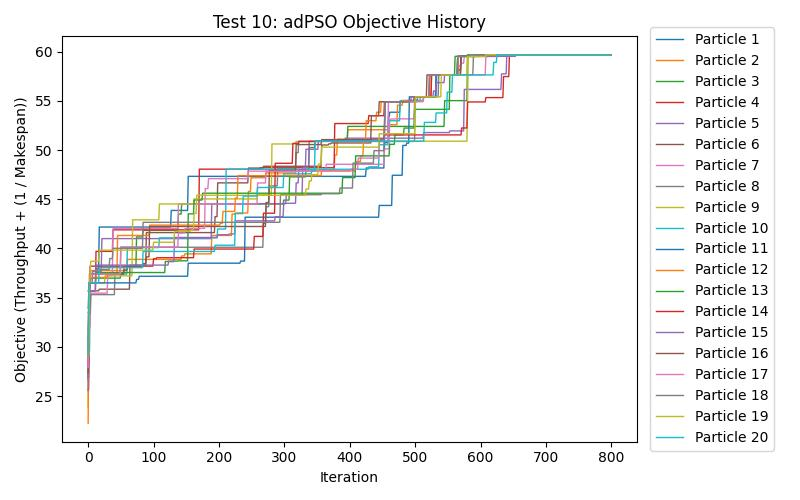
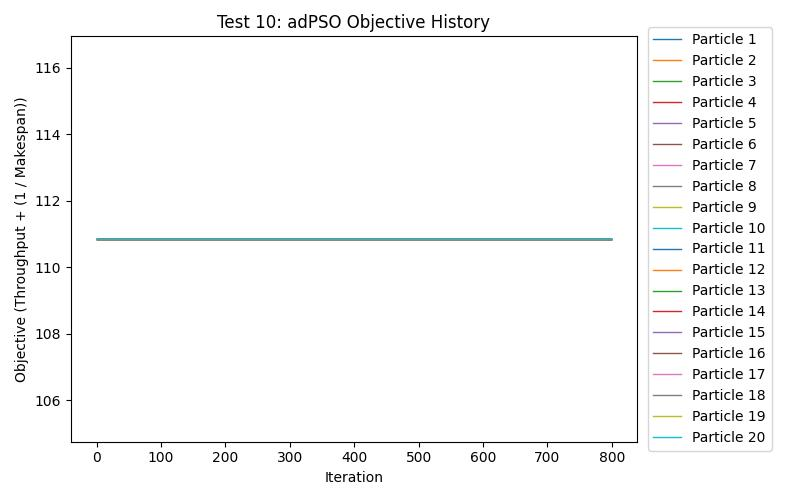
continue developing init strategy

diff --git a/psoscheduler/src/main/java/syslab/cloudcomputing/pso/Particle.java b/psoscheduler/src/main/java/syslab/cloudcomputing/pso/Particle.java
@@ -41,11 +41,27 @@ public class Particle {
   private Workload workload;
   private DataCenter dataCenter;
 
+  public static enum InitializationStrategy {
+    RANDOM,
+    MCT,
+  }
+
   public Particle(DataCenter dataCenter, Workload workload) {
     this.id = Particle.idCounter++;
     this.workload = workload;
     this.dataCenter = dataCenter;
-    this.randomInitialization();
+    randomInitialization();
+  }
+
+  public Particle(DataCenter dataCenter, Workload workload, InitializationStrategy initializationStrategy) {
+    this.id = Particle.idCounter++;
+    this.workload = workload;
+    this.dataCenter = dataCenter;
+    if (initializationStrategy == Particle.InitializationStrategy.MCT) {
+      mctInitialization();
+    } else {
+      randomInitialization();
+    }
   }
 
   // Returns true is this iteration was a success (ie. it acheived a new personal best)
@@ -79,10 +95,11 @@ public class Particle {
 
   private void randomInitialization() {
     this.position = new Matrix(this.workload.getTaskCount(), this.dataCenter.getVirtualMachineCount());
-    this.position.randomPositionInitialization();
 
     this.velocity = new Matrix(this.workload.getTaskCount(), this.dataCenter.getVirtualMachineCount());
     this.velocity.randomVelocityInitialization(0, 1);
+
+    this.updatePosition();
 
     updateDataCenter();
 
@@ -90,7 +107,31 @@ public class Particle {
     // objective function computation
     this.personalBestPosition = this.position;
     this.personalBestObjectiveValue = this.dataCenter.computeObjective();
-    // System.out.println(this.position);
+    // TODO remove
+    this.personalBestMakespan = this.dataCenter.computeMakespan();
+    this.personalBestThroughput = this.dataCenter.computeThroughput();
+  }
+
+  // Minimum completion time algorithm used for initialization as per https://www.sciencedirect.com/science/article/pii/S1319157820305279#e0045
+  private void mctInitialization() {
+    this.position = new Matrix(this.workload.getTaskCount(), this.dataCenter.getVirtualMachineCount());
+
+    this.dataCenter.resetVirtualMachineReadyTimes();
+
+    for (Task t : this.workload.getTasks()) {
+      VirtualMachine vm = this.dataCenter.getVmWithMinEET(t);
+      this.position.setComponent(t.getId() - 1, vm.getId() - 1, 1);
+      this.dataCenter.addExecutionTimeToVirtualMachine(t, vm);
+    }
+    
+    this.velocity = this.position.copy().multiply(0.2).addJ(0.1);
+
+    updateDataCenter();
+    this.personalBestPosition = this.position;
+    this.personalBestObjectiveValue = this.dataCenter.computeObjective();
+    // TODO remove
+    this.personalBestMakespan = this.dataCenter.computeMakespan();
+    this.personalBestThroughput = this.dataCenter.computeThroughput();
   }
 
   private void updateDataCenter() {

diff --git a/psoscheduler/src/main/java/syslab/cloudcomputing/pso/PSOSwarm.java b/psoscheduler/src/main/java/syslab/cloudcomputing/pso/PSOSwarm.java
@@ -13,9 +13,9 @@ public class PSOSwarm {
   private final double w1 = 0.9;
   private final double w2 = 0.4;
 
-  private final int maxIterations = 800;
+  private final int maxIterations = 400;
   private static final int nSwarms = 5;
-  private static final int nParticles = 20;
+  private static final int nParticles = 50;
 
   private double p_s = 1.0;
 
@@ -42,10 +42,14 @@ public class PSOSwarm {
 
   private void initializeSwarm(int nParticles) {
     this.particles = new ArrayList<Particle>();
-    for (int i = 0; i < nParticles; i++) {
+    for (int i = 0; i < nParticles - 1; i++) {
       Particle particle = new Particle(this.dataCenter, this.workload);
       this.particles.add(particle);
     }
+
+    // Include one single particle initialized with MCT algorithm
+    Particle particle = new Particle(this.dataCenter, this.workload, Particle.InitializationStrategy.MCT);
+    this.particles.add(particle);
 
     this.findGlobalBest();
     // TODO remove the below line when benchmarking

diff --git a/psoscheduler/src/main/java/syslab/cloudcomputing/simulation/DataCenter.java b/psoscheduler/src/main/java/syslab/cloudcomputing/simulation/DataCenter.java
@@ -77,6 +77,21 @@ public abstract class DataCenter {
     return maxMakespan;
   }
 
+  public VirtualMachine getVmWithMinEET(Task t) {
+    Double minEET = null;
+    VirtualMachine vmMinEET = null;
+
+    for (VirtualMachine vm : this.virtualMachines) {
+      double eet = this.virtualMachineReadyTime.get(vm) + this.getLoadExecutionTime(t, vm);
+      if (minEET == null || eet < minEET) {
+        minEET = eet;
+        vmMinEET = vm;
+      }
+    }
+
+    return vmMinEET;
+  }
+
   public double computeThroughput() {
     return this.taskCount / this.computeMakespan();
   }

diff --git a/psoscheduler/src/main/java/syslab/cloudcomputing/utils/Matrix.java b/psoscheduler/src/main/java/syslab/cloudcomputing/utils/Matrix.java
@@ -131,6 +131,10 @@ public class Matrix {
     return this.operate(constant, Matrix.multilpication);
   }
 
+  public Matrix addJ(double constant) {
+    return this.operate(constant, Matrix.addition);
+  }
+
   public int getRowsCount() {
     return this.rows;
   }

diff --git a/psoscheduler/src/main/java/syslab/cloudcomputing/simulation/Workload.java b/psoscheduler/src/main/java/syslab/cloudcomputing/simulation/Workload.java
@@ -40,6 +40,10 @@ public class Workload {
     return wk;
   }
 
+  public ArrayList<Task> getTasks() {
+    return this.tasks;
+  }
+
   @Override
   public String toString() {
     return "{ Workload: " + tasks + " }";
